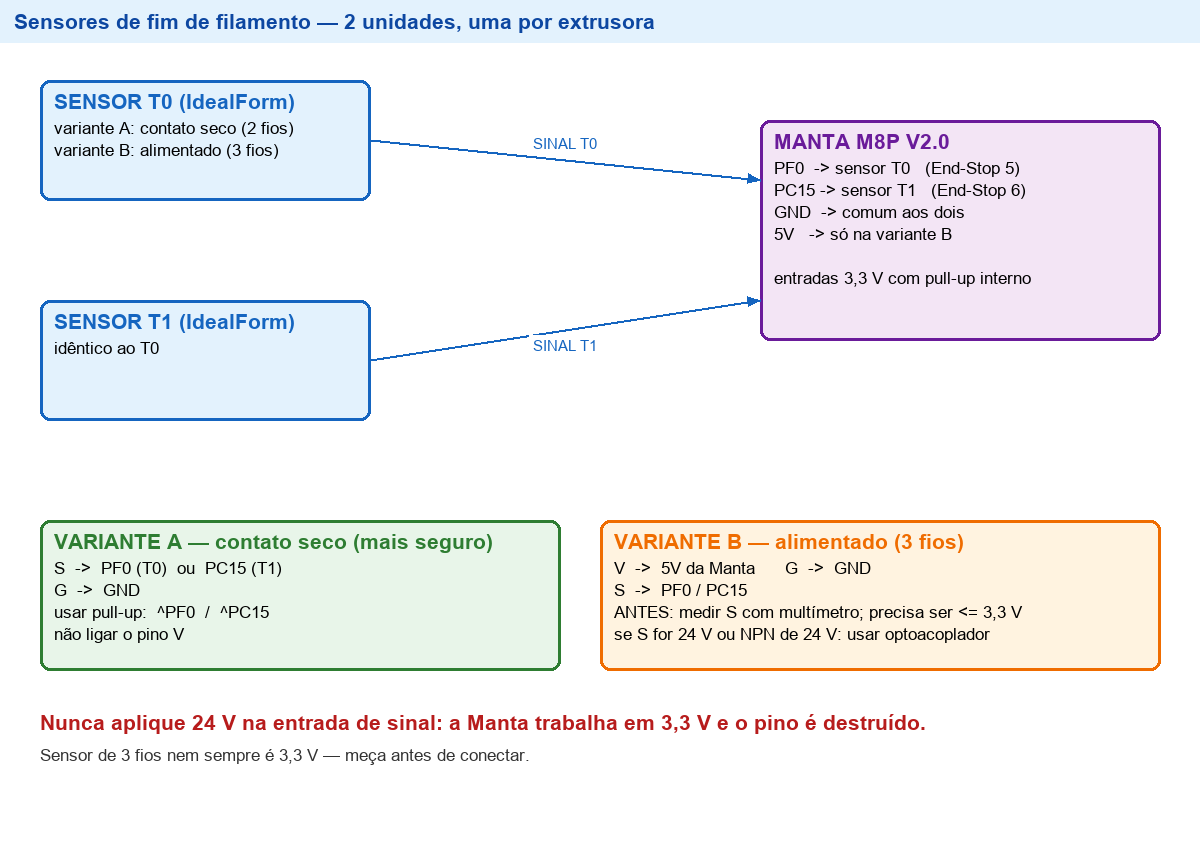
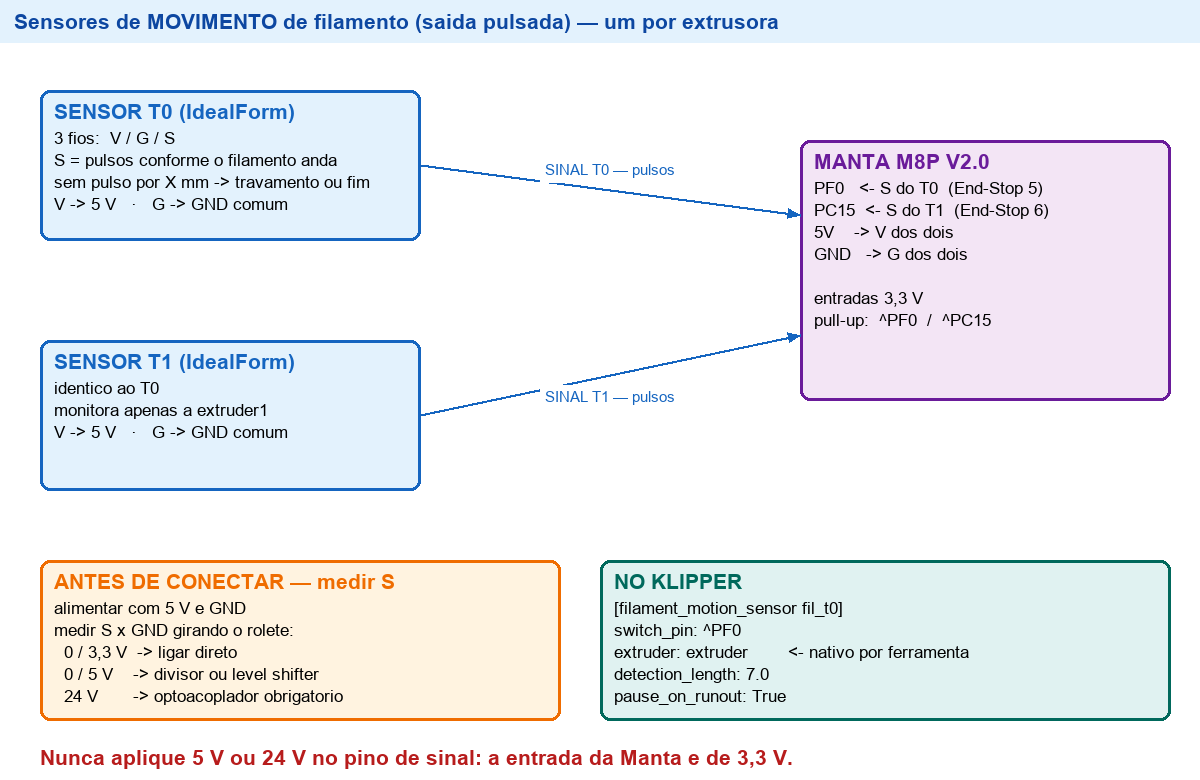
docs(filamento): corrigir para sensor de movimento (pulsos), nao chave
- [filament_motion_sensor] com extruder: por ferramenta, o que resolve
  a convivencia com dois bicos sem logica manual
- deteccao tambem de travamento e patinacao, nao so fim de carretel
- procedimento para medir a tensao do pulso e calibrar detection_length
  pelo intervalo real entre pulsos

diff --git a/01_Docs/16_Sensores_Filamento.md b/01_Docs/16_Sensores_Filamento.md
@@ -1,144 +1,153 @@
-# Sensores de Fim de Filamento — 2 × IdealForm
+# Sensores de Movimento de Filamento — 2 × IdealForm
 
 **Documento:** 16_Sensores_Filamento.md
-**Versão:** 1.0.0
+**Versão:** 2.0.0
 **Data:** 2026-10-27
-**Objetivo:** instalar um sensor de fim de filamento por extrusora, com parada automática apenas
-quando a ferramenta ativa ficar sem material.
+**Objetivo:** instalar um sensor de **movimento** por extrusora, detectando fim de filamento **e**
+travamento, com parada apenas quando a ferramenta ativa é a afetada.
+
+> **Correção da v1.0:** o sensor não é uma chave de fim de filamento. Ele emite **pulsos** conforme
+> o filamento avança. No Klipper isso é `[filament_motion_sensor]`, não `[filament_switch_sensor]`.
 
 ---
 
-# 1. Pinos na Manta M8P V2.0
+# 1. Por que o sensor de pulsos é melhor aqui
 
-A configuração de referência da própria BIGTREETECH reserva dois conectores para sensor de
-filamento, e ambos estão **livres** na configuração atual da máquina:
+| Situação | Chave de fim | **Sensor de movimento** |
+|---|---|---|
+| Filamento acabou | detecta | detecta |
+| Filamento travou no carretel | **não** | detecta |
+| Roda de tração moeu o filamento | **não** | detecta |
+| Bico entupido e extrusora patinando | **não** | detecta |
 
-| Sensor | Pino do MCU | Conector na placa (referência BTT) | Usado hoje por |
-|---|---|---|---|
-| T0 (extrusora 0) | **PF0** | End-Stop 5 | — livre |
-| T1 (extrusora 1) | **PC15** | End-Stop 6 | — livre |
+Com PETG em impressões de várias horas, o caso mais frequente não é o carretel acabar — é o
+filamento parar de avançar com o carretel cheio. A chave não vê isso; o sensor de pulsos vê.
+
+# 2. Pinos na Manta M8P V2.0
+
+Conectores reservados pela BIGTREETECH para sensor de filamento, **livres** na configuração atual
+(verificado: nenhuma ocorrência de `PF0` ou `PC15` em `03_Klipper_Config/`):
+
+| Sensor | Pino do MCU | Conector (referência BTT) |
+|---|---|---|
+| T0 (extrusora 0) | **PF0** | End-Stop 5 |
+| T1 (extrusora 1) | **PC15** | End-Stop 6 |
 
 Referência: [`06_Firmware/generic-bigtreetech-manta-m8p-V2_0.cfg`](../06_Firmware/generic-bigtreetech-manta-m8p-V2_0.cfg)
 linhas 77–92.
 
-Entradas de fim de curso da Manta: **3,3 V**, com pull-up interno disponível (`^`).
+# 3. Diagrama
 
-# 2. Diagrama
+![Sensores de movimento na Manta](../08_Fotos/Filament_Sensors_Manta.png)
 
-![Sensores de filamento na Manta](../08_Fotos/Filament_Sensors_Manta.png)
+# 4. Ligação elétrica
 
-# 3. Duas variantes de sensor — descubra qual é o seu antes de ligar
-
-## 3.1 Variante A — contato seco (2 fios)
-
-É o caso mais comum e o mais seguro: o sensor é só um interruptor.
-
-| Fio do sensor | Ligar em |
-|---|---|
-| S (sinal) | `PF0` (T0) ou `PC15` (T1) |
-| G (terra) | `GND` |
-| V | **não conectar** |
-
-No Klipper, use o pull-up: `switch_pin: ^PF0`.
-
-## 3.2 Variante B — alimentado (3 fios)
+O sensor tem **3 fios**:
 
 | Fio | Ligar em | Observação |
 |---|---|---|
-| V | **5 V** da Manta | nunca 24 V |
-| G | `GND` | |
-| S | `PF0` / `PC15` | **medir antes** |
+| **V** | **5 V** da Manta | não usar 24 V |
+| **G** | **GND** da Manta | mesmo terra dos dois sensores |
+| **S** | `PF0` (T0) ou `PC15` (T1) | sinal pulsado |
 
-**Procedimento obrigatório antes de conectar o sinal:**
+## 4.1 Medição obrigatória antes de conectar S
 
-1. Alimente o sensor com 5 V e GND.
-2. Meça S em relação ao GND, com filamento presente e ausente:
-   - **0 V / 3,3 V** → compatível, ligar direto;
-   - **0 V / 5 V** → usar divisor resistivo ou optoacoplador;
-   - **24 V** ou saída NPN de 24 V → **obrigatório optoacoplador**.
-3. Confirme também se o sensor é **NA** (fecha com filamento) ou **NF**. Se a lógica sair invertida,
-   o `switch_pin` recebe `!` — por exemplo `^!PF0`.
+1. Alimente o sensor com 5 V e GND, **sem** ligar o fio S na placa.
+2. Com o multímetro entre S e GND, puxe o filamento devagar:
+   - **0 / 3,3 V** → ligar direto;
+   - **0 / 5 V** → divisor resistivo ou level shifter;
+   - **0 / 24 V** → optoacoplador obrigatório.
+3. Confirme que há pulsos reais ao mover o filamento (a tensão deve alternar). Sensor parado ou
+   sem pulsos = defeito ou tensão insuficiente.
 
-> A Manta trabalha em 3,3 V. Aplicar 5 V ou 24 V no pino de sinal o destrói.
+> A entrada da Manta é de 3,3 V. Aplicar 5 V ou 24 V no pino de sinal o destrói.
 
-# 4. Configuração no Klipper
+## 4.2 Intervalo entre pulsos — define o `detection_length`
 
-Criar `qidi_xpro/filament.cfg` e incluí-lo no `printer.cfg`:
+O Klipper dispara quando o filamento avança **X mm sem nenhum pulso**. Portanto:
+
+```
+detection_length  >  distância entre dois pulsos consecutivos
+```
+
+Meça assim: marque 100 mm de filamento, puxe devagar e conte quantas vezes o sinal alterna. Se
+houver, por exemplo, um pulso a cada 10 mm, use `detection_length: 15`. Se o sensor der vários
+pulsos por milímetro (roda dentada), `7.0` é folgado.
+
+Comece com **10.0** e reduza depois de confirmar que não há falso disparo.
+
+# 5. Configuração no Klipper
+
+Criar `qidi_xpro/filament.cfg` e incluir no `printer.cfg` (`[include qidi_xpro/filament.cfg]`):
 
 ```ini
 ########################################
-# Sensores de fim de filamento
+# Sensores de movimento de filamento
 ########################################
 
-[filament_switch_sensor fil_t0]
+[filament_motion_sensor fil_t0]
 switch_pin: ^PF0
-pause_on_runout: False
+extruder: extruder
+detection_length: 10.0
+pause_on_runout: True
 event_delay: 3.0
+pause_delay: 0.5
 runout_gcode:
-    {% if printer.toolhead.extruder == 'extruder' %}
-        M118 Fim de filamento no T0
-        PAUSE
-    {% else %}
-        M118 Sensor do T0 sem filamento (ferramenta inativa)
-    {% endif %}
+    M118 Fim ou travamento de filamento no T0
 insert_gcode:
-    {% if printer.toolhead.extruder == 'extruder' and printer.pause_resume.is_paused %}
-        M118 Filamento reposto no T0
-        RESUME
-    {% endif %}
+    M118 Filamento reposto no T0
 
-[filament_switch_sensor fil_t1]
+[filament_motion_sensor fil_t1]
 switch_pin: ^PC15
-pause_on_runout: False
+extruder: extruder1
+detection_length: 10.0
+pause_on_runout: True
 event_delay: 3.0
+pause_delay: 0.5
 runout_gcode:
-    {% if printer.toolhead.extruder == 'extruder1' %}
-        M118 Fim de filamento no T1
-        PAUSE
-    {% else %}
-        M118 Sensor do T1 sem filamento (ferramenta inativa)
-    {% endif %}
+    M118 Fim ou travamento de filamento no T1
 insert_gcode:
-    {% if printer.toolhead.extruder == 'extruder1' and printer.pause_resume.is_paused %}
-        M118 Filamento reposto no T1
-        RESUME
-    {% endif %}
+    M118 Filamento reposto no T1
 ```
 
-## Por que `pause_on_runout: False`
+## Por que a opção `extruder:` resolve o problema das duas ferramentas
 
-Com duas extrusoras, a pausa automática do Klipper dispara mesmo quando o sensor da ferramenta
-**inativa** abre — o que interromperia uma impressão boa por causa do bico que nem está em uso.
-Desligando a pausa automática e tratando no `runout_gcode`, só há pausa quando a ferramenta
-**ativa** é a que ficou sem filamento.
+O `[filament_motion_sensor]` avalia o sensor **somente enquanto aquela extrusora está extrudando**.
+Com `extruder: extruder` e `extruder: extruder1` nos respectivos sensores:
 
-O `insert_gcode` só retoma se o trabalho estiver realmente pausado, para não gerar erro de
-`RESUME` fora de pausa.
+- T0 imprimindo e T1 sem filamento → **não pausa**;
+- T1 entra em uso e não tem filamento → pausa imediatamente;
+- T0 patinando (entupimento) → pausa.
 
-# 5. Teste
+Isso elimina a lógica manual que a versão 1.0 deste documento usava.
 
-| # | Comando / ação | Esperado |
+# 6. Teste
+
+| # | Ação | Esperado |
 |---|---|---|
-| 1 | `QUERY_FILAMENT_SENSOR SENSOR=fil_t0` | `filament detected` com filamento |
-| 2 | Retirar o filamento do T0 | `runout` registrado no console |
-| 3 | `QUERY_FILAMENT_SENSOR SENSOR=fil_t0` | `filament not detected` |
+| 1 | `QUERY_FILAMENT_SENSOR SENSOR=fil_t0` | sensor detectado / state |
+| 2 | Puxar filamento devagar pelo T0 | estado alterna sem pausar |
+| 3 | Segurar o filamento e mandar extrudar 20 mm | pausa com mensagem do T0 |
 | 4 | Repetir 1–3 no `fil_t1` | idem |
-| 5 | Com um trabalho pausado, repor o filamento | `RESUME` automático |
-| 6 | Imprimir com T0 e retirar o filamento do **T1** | **não** deve pausar; mensagem de inativa |
+| 5 | Imprimir no T0 e remover o filamento do **T1** | **não** pausa |
+| 6 | Durante a impressão no T0, segurar o filamento | pausa em até `detection_length` mm |
+| 7 | Repor e mandar `RESUME` | retoma sem erro |
 
-# 6. Cuidados
+# 7. Cuidados
 
-1. **Meça o sinal antes de conectar** — o item 3.2 não é opcional.
-2. **Não compartilhe o GND de forma errada**: o GND do sensor deve ser o mesmo da Manta.
-3. **Roteamento**: os fios do sensor passam pela região dos cabos dos hotends; prender junto ao
-   feixe existente e manter longe do cabo do termistor (ruído).
-4. **`event_delay: 3.0`** evita falso disparo quando o filamento oscila no sensor.
-5. Se a leitura sair invertida, trocar `^PF0` por `^!PF0` (e o equivalente no T1).
+1. **Meça a tensão de S antes de conectar** (item 4.1). Não é opcional.
+2. **GND comum** entre os dois sensores e a Manta.
+3. **Roteamento**: passar os fios junto ao feixe dos hotends, longe do cabo do termistor. O sinal é
+   pulsado e de alta impedância com pull-up; ruído gera falso disparo.
+4. **`detection_length` calibrado** ao intervalo real entre pulsos (item 4.2) — valor pequeno demais
+   gera pausas falsas em impressões longas.
+5. Os dois sensores são instalados **antes** da extrusora, um em cada caminho de filamento; com a
+   máquina desmontada é o momento de definir a fixação mecânica.
 
-# 7. Pendências
+# 8. Pendências
 
-- [ ] Confirmar se o IdealForm tem 2 ou 3 fios e qual a tensão de saída
-- [ ] Definir o `switch_pin` com ou sem `!` conforme a lógica do sensor
-- [ ] Instalar `qidi_xpro/filament.cfg` e incluir no `printer.cfg`
-- [ ] Executar o teste da seção 5 e registrar
-- [ ] Sincronizar o espelho `03_Klipper_Config/` e o `MANIFEST`
+- [ ] Confirmar a tensão de saída do IdealForm e o intervalo entre pulsos
+- [ ] Definir o `detection_length` a partir da medição
+- [ ] Instalar `qidi_xpro/filament.cfg`, incluir no `printer.cfg` e reiniciar
+- [ ] Executar o teste da seção 6 e registrar
+- [ ] Sincronizar `03_Klipper_Config/` + `MANIFEST` e atualizar o `README`
